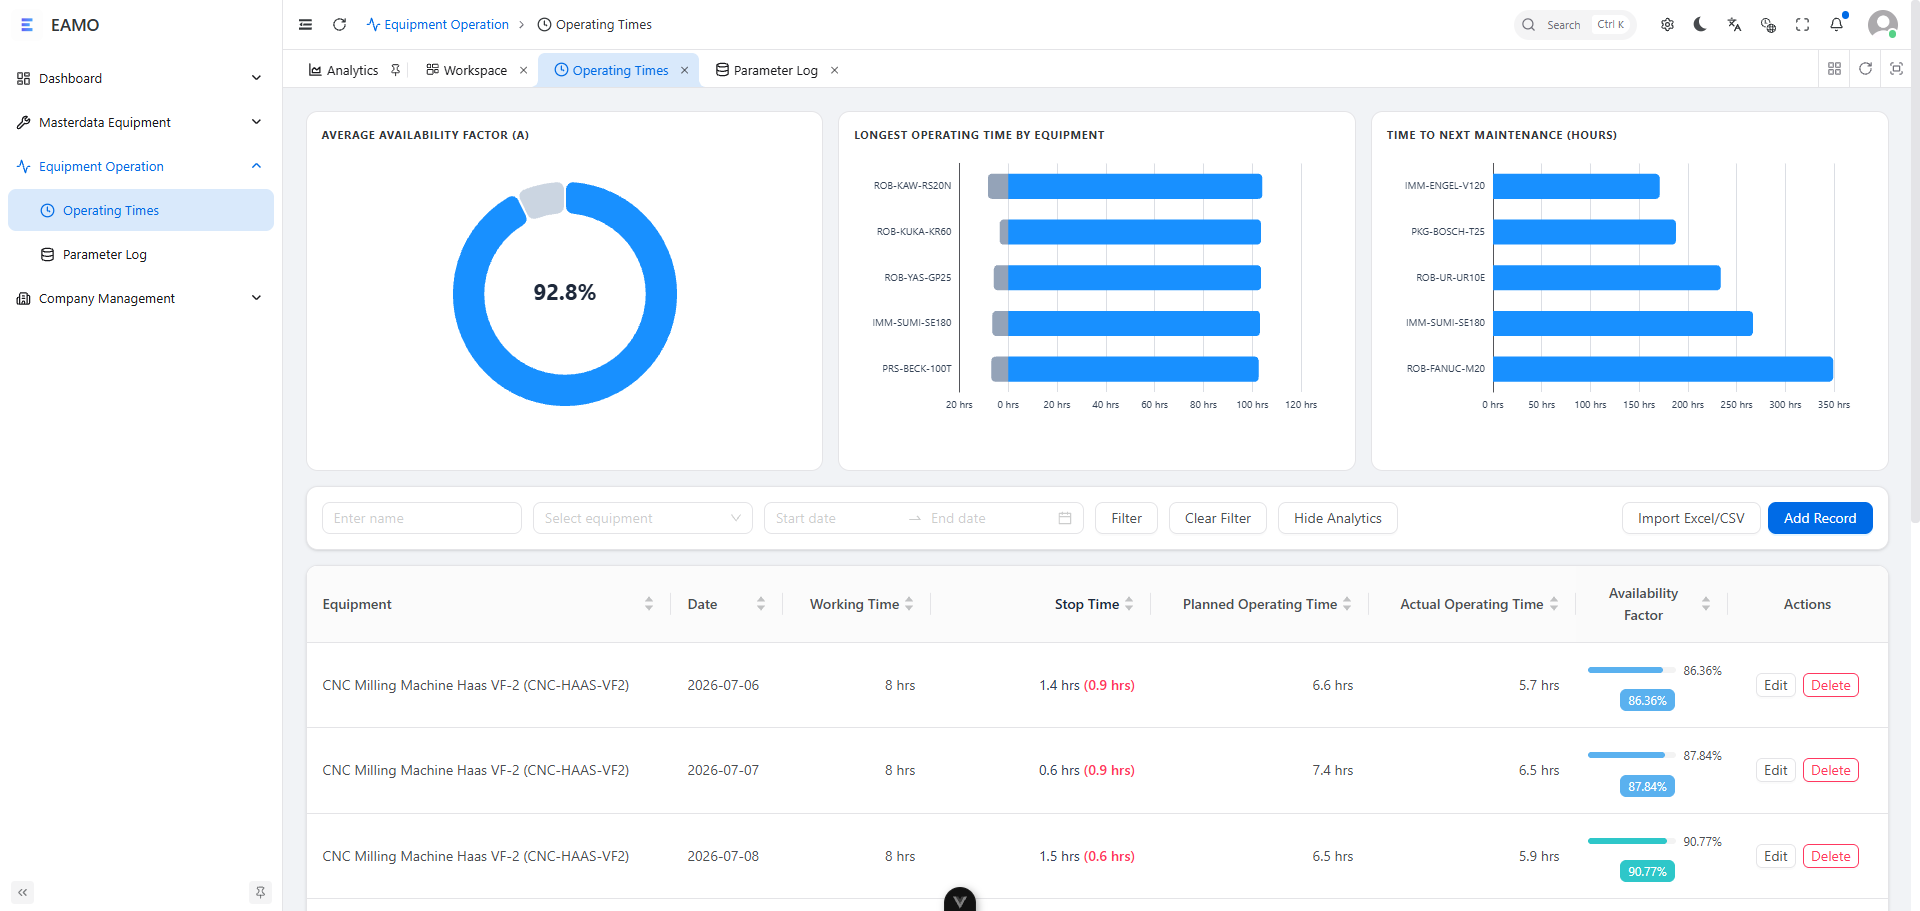
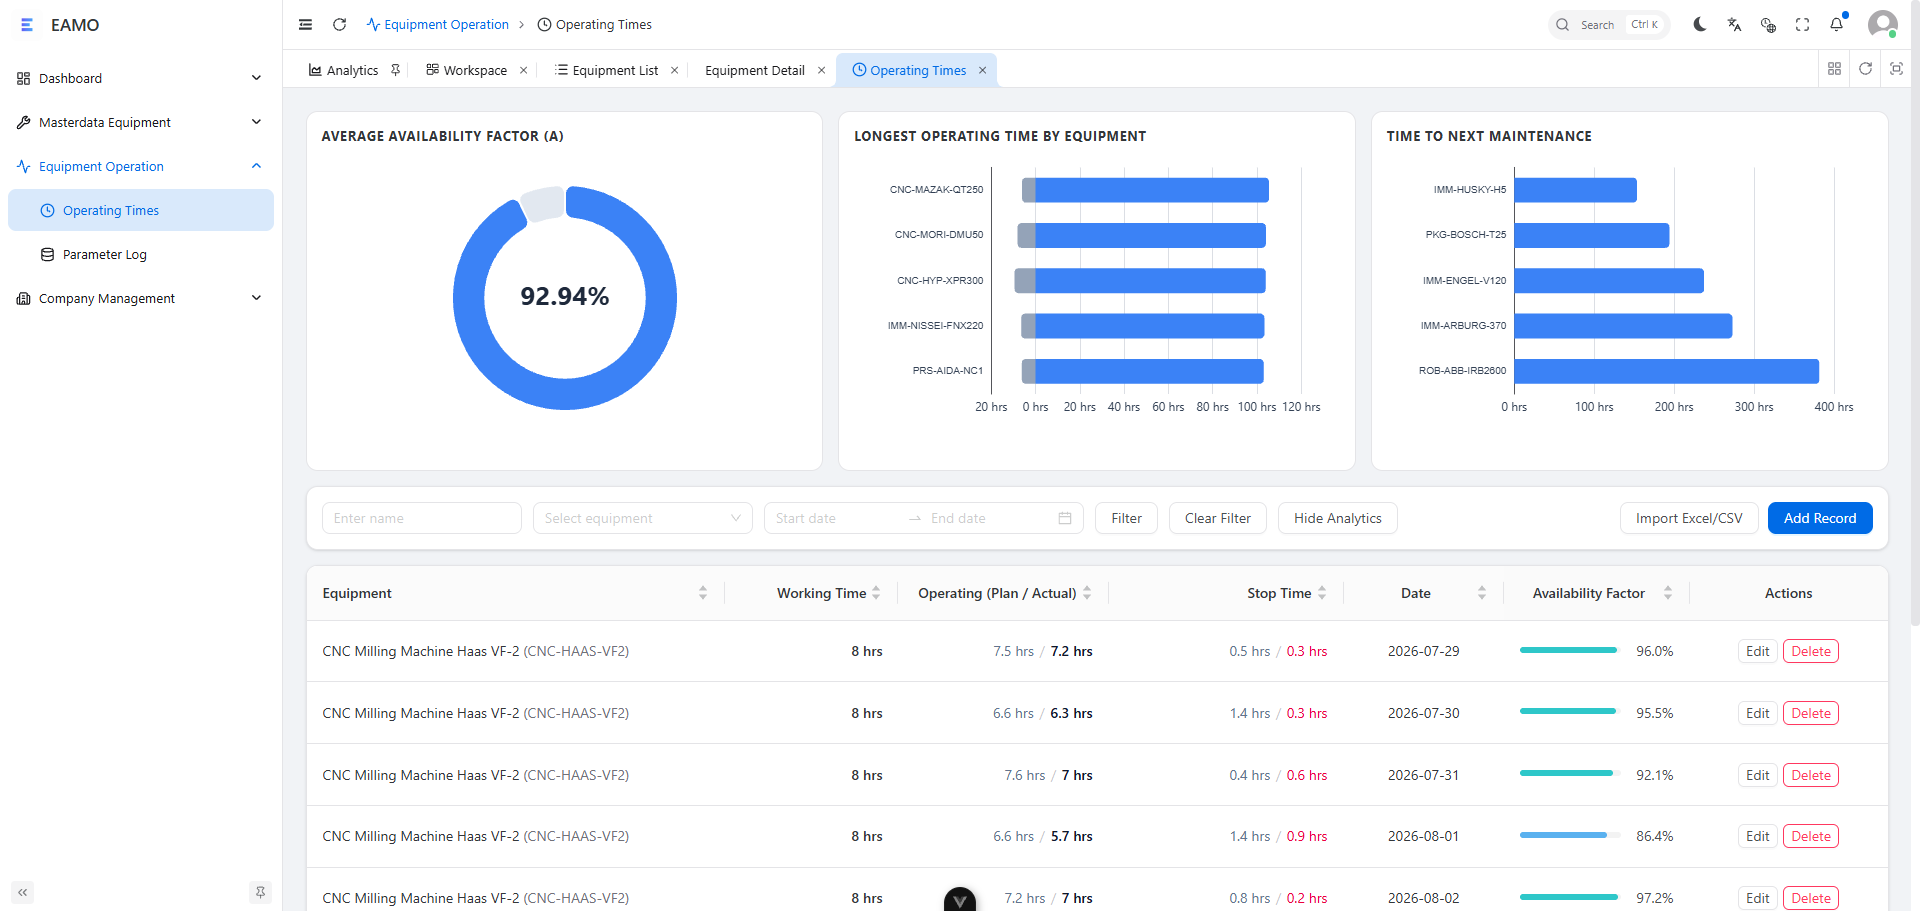
docs: update profile introduction and add new UI/OI screenshots

diff --git a/profile/README.md b/profile/README.md
@@ -1,12 +1,32 @@
 # EAMO — Equipment Asset Management Solution
 
+<div align="center">
+
+![PHP 8.4](https://img.shields.io/badge/PHP-8.4-777BB4?style=flat-square&logo=php&logoColor=white)
+![Laravel 13](https://img.shields.io/badge/Laravel-13.x-FF2D20?style=flat-square&logo=laravel&logoColor=white)
+![Vue 3](https://img.shields.io/badge/Vue-3.x-4FC08D?style=flat-square&logo=vuedotjs&logoColor=white)
+![TypeScript](https://img.shields.io/badge/TypeScript-5.x-3178C6?style=flat-square&logo=typescript&logoColor=white)
+![Ant Design](https://img.shields.io/badge/Ant%20Design%20Vue-4.x-0170FE?style=flat-square&logo=antdesign&logoColor=white)
+![PostgreSQL](https://img.shields.io/badge/PostgreSQL-16-4169E1?style=flat-square&logo=postgresql&logoColor=white)
+![License](https://img.shields.io/badge/License-Proprietary-blue?style=flat-square)
+
+**Enterprise-grade Industrial Asset Management & Maintenance Operations System**
+
+[Overview](#overview) • [Desktop Management Console](#desktop-web-management-console) • [Mobile Operator Interface](#mobile-operator-interface-oi) • [Core Modules](#core-modules) • [RBAC](#role-based-access-control) • [Tech Stack](#system-architecture--technology-stack)
+
+</div>
+
 ---
 
 ## Overview
 
-EAMO (Equipment Asset Management Solution) is an enterprise-grade industrial asset management and maintenance operations system built for manufacturing plants and production facilities. The platform provides end-to-end coverage across the full equipment lifecycle: from master data configuration and daily inspection routines through preventive maintenance scheduling, real-time parameter telemetry logging, and live breakdown incident management.
+**EAMO (Equipment Asset Management Solution)** is an enterprise-grade industrial asset management and maintenance operations platform built for modern manufacturing plants, production facilities, and industrial workshops.
 
-The system is composed of two primary interfaces: a desktop Web Management Console for administrative, managerial, and engineering staff, and a Mobile Operator Interface (OI) purpose-built for shop-floor technicians operating handheld devices on the factory floor.
+The platform provides end-to-end lifecycle management across all plant equipment: from visual hierarchical topology mapping and daily checklist inspection routines to preventive maintenance scheduling, real-time operating parameter telemetry logging, and live machine breakdown incident tracking.
+
+The system is composed of two primary interfaces:
+1. **Desktop Web Management Console**: A full-featured operational and analytics dashboard designed for plant managers, maintenance leads, and reliability engineers.
+2. **Mobile Operator Interface (OI)**: A camera-native, touch-optimized web application purpose-built for shop-floor technicians operating handheld devices and industrial tablets directly at machine stations.
 
 ---
 
@@ -14,121 +34,171 @@ The system is composed of two primary interfaces: a desktop Web Management Conso
 
 ### Desktop Web Management Console
 
-The desktop portal delivers comprehensive dashboards, analytical charts, asset hierarchy browsing, and full CRUD management for all platform resources. It targets Managers, Engineers, and Administrators.
+The desktop portal delivers high-level operational intelligence, visual asset topology mapping, maintenance calendars, telemetry graphs, and granular control over all platform master data.
 
 <div align="center">
-  <p><b>Executive Dashboard — Real-Time Equipment Status & Monitoring</b></p>
+  <p><b>Executive Dashboard — Real-Time Operational Status, Telemetry Waveforms & Availability Rates</b></p>
   <img src="../img/dashboard.png" alt="EAMO Executive Dashboard" width="100%" />
 </div>
 
 <br/>
 
 <div align="center">
-  <p><b>Equipment Master Data List — Asset Hierarchy & Category Management</b></p>
+  <p><b>Workspace Calendar — Maintenance Plans & Inspection Checklist Scheduling Hub</b></p>
+  <img src="../img/workspace.png" alt="Workspace Calendar" width="100%" />
+</div>
+
+<br/>
+
+<div align="center">
+  <p><b>Workspace Checklist Judgement — Manager Evaluation Drawer & Inspection Audit Trail</b></p>
+  <img src="../img/workpace_detail.png" alt="Workspace Checklist Judgement Drawer" width="100%" />
+</div>
+
+<br/>
+
+<div align="center">
+  <p><b>Equipment Master Data — Asset Registry, Category Tree & Parameter Badges</b></p>
   <img src="../img/equipment-list.png" alt="Equipment Master Data List" width="100%" />
 </div>
 
 <br/>
 
 <div align="center">
-  <p><b>Equipment Detail View — Parameters, Error Definitions & State Configuration</b></p>
-  <img src="../img/equipment-detail.png" alt="Equipment Detail View" width="100%" />
+  <p><b>Equipment Hierarchy Diagram — Interactive Node Topology & Auto-Layout Graph</b></p>
+  <img src="../img/equipment-detail.png" alt="Equipment Hierarchy Topology Diagram" width="100%" />
 </div>
 
 <br/>
 
 <div align="center">
-  <p><b>Equipment Parameter Logs — Historical Telemetry Logs & Trend Analysis</b></p>
-  <img src="../img/parameter-log.png" alt="Equipment Parameter Logs" width="100%" />
+  <p><b>Equipment Parameter Configuration — Standard, Min/Max Limits & Unit Tolerance Rules</b></p>
+  <img src="../img/equipment-detail%20(2).png" alt="Equipment Parameter Limit Configuration" width="100%" />
 </div>
 
 <br/>
 
 <div align="center">
-  <p><b>Operating Times & Utilization — Machine Run Hours & Downtime Tracking</b></p>
-  <img src="../img/operating-times.png" alt="Operating Times & Utilization" width="100%" />
+  <p><b>Operating Times & Availability — Run Hours, Downtime Tracking & Availability Factor Metrics</b></p>
+  <img src="../img/operating-times.png" alt="Operating Times and Availability Factor" width="100%" />
 </div>
 
 <br/>
 
 <div align="center">
-  <p><b>Workspace View — Operational Layout & Multi-department Overview</b></p>
-  <img src="../img/workspace.png" alt="Workspace View" width="100%" />
+  <p><b>Equipment Parameter Telemetry Logs — Time-Series Trends & Boundary Limit Warnings</b></p>
+  <img src="../img/parameter-log.png" alt="Equipment Parameter Logs and Trends" width="100%" />
+</div>
+
+<br/>
+
+<div align="center">
+  <p><b>Unified Authentication — Dual-Portal Access (Desktop UI / Mobile OI) & Theme Switching</b></p>
+  <img src="../img/login.png" alt="Unified Authentication Screen" width="100%" />
 </div>
 
 ---
 
-## Mobile Operator Interface (OI)
+### Mobile Operator Interface (OI)
 
-The Operator Interface is a mobile-first web portal designed specifically for shop-floor technicians, operators, and maintenance engineers using handheld devices or ruggedized industrial tablets at the machine level.
+The Operator Interface is a lightweight, mobile-first web portal designed specifically for technicians and operators on the factory floor. It streamlines machine interactions through a 2-step QR-code workflow: scan the machine's physical QR badge to hydrate context, then log parameters, check off inspection items, or flag breakdown incidents.
 
-The OI is accessed via a dedicated portal route and implements a 2-step QR-scan workflow across its core functions: the operator scans a physical equipment QR code attached to the machine, which hydrates the system context for that specific asset, then proceeds to complete the relevant data entry action.
-
-Key design characteristics of the OI:
-
-- **Camera-native QR scanning**: Uses a real-time HTML5 video camera stream to decode equipment QR codes directly, with fallback matching against master data if the equipment is not recognized.
-- **Mobile-first single-page interaction**: Minimal taps, large touch targets, and a chip/card-based selection interface instead of dropdown menus.
-- **Non-empty field filtering**: For parameter logging, client-side logic automatically strips blank fields from the submission payload, preventing empty database records without requiring manual validation by the operator.
-- **Bilingual support**: The interface supports both English and Vietnamese localization.
-
-### Mobile OI Screenshots
+#### Mobile OI Features & Highlights:
+- **Camera-Native QR Scanning**: Leverages HTML5 video camera streams with automated decoding and fallback search.
+- **Speed Dial Action Hub**: Instant one-tap navigation to all vital mobile actions.
+- **Visual Progress Tracking**: Real-time completion progress rings for daily checklist sessions and maintenance orders.
+- **Automated Data Sanitization**: Client-side filtering automatically strips un-entered fields to ensure database integrity.
+- **Live Push Notification Feed**: Real-time error dispatches and maintenance schedule assignments.
 
 <div align="center">
-  <div style="display: flex; overflow-x: auto; gap: 16px; padding: 12px 0; -webkit-overflow-scrolling: touch; justify-content: flex-start;">
-    <img src="../img/mobile-3.png" alt="Mobile OI — Equipment Parameter Logging Screen" width="270" style="flex-shrink: 0; border-radius: 10px;" />
-    <img src="../img/mobile-4.png" alt="Mobile OI — Main Portal Screen" width="270" style="flex-shrink: 0; border-radius: 10px;" />
-    <img src="../img/mobile-1.png" alt="Mobile OI — Incident Reporting Screen" width="270" style="flex-shrink: 0; border-radius: 10px;" />
+  <div style="display: flex; overflow-x: auto; gap: 16px; padding: 12px 0; -webkit-overflow-scrolling: touch; justify-content: center; flex-wrap: wrap;">
+    <div style="text-align: center; max-width: 260px; margin: 8px;">
+      <img src="../img/mobile-4.png" alt="Mobile Navigation Hub" width="240" style="border-radius: 12px; box-shadow: 0 4px 12px rgba(0,0,0,0.1);" />
+      <p><b>1. Quick Navigation Hub</b><br/><sub>Speed dial menu for instant workflow access</sub></p>
+    </div>
+    <div style="text-align: center; max-width: 260px; margin: 8px;">
+      <img src="../img/mobile-3.png" alt="Checklist Task List" width="240" style="border-radius: 12px; box-shadow: 0 4px 12px rgba(0,0,0,0.1);" />
+      <p><b>2. Inspection & Maintenance Tasks</b><br/><sub>Live progress rings & fast incident triggers</sub></p>
+    </div>
+    <div style="text-align: center; max-width: 260px; margin: 8px;">
+      <img src="../img/mobile-1.png" alt="QR Scanner" width="240" style="border-radius: 12px; box-shadow: 0 4px 12px rgba(0,0,0,0.1);" />
+      <p><b>3. Camera QR Scanner</b><br/><sub>Instant machine binding via physical QR badge</sub></p>
+    </div>
+    <div style="text-align: center; max-width: 260px; margin: 8px;">
+      <img src="../img/mobile-2.png" alt="Notifications Center" width="240" style="border-radius: 12px; box-shadow: 0 4px 12px rgba(0,0,0,0.1);" />
+      <p><b>4. Push Notifications</b><br/><sub>Real-time machine breakdown & dispatch alerts</sub></p>
+    </div>
   </div>
 </div>
 
-For full architectural specifications, sequence diagrams, and API payload schemas, refer to the [Operator Interface Technical Documentation Master Index](../docs/oi/README.md).
+For detailed technical workflow specifications, see the [Operator Interface Technical Documentation Master Index](../docs/oi/README.md).
 
 ---
 
-## Features
+## Core Modules
 
-### Equipment & Master Data Management
+### 1. Equipment Master Data & Visual Topology Graph
+Maintains an asset registry supporting hierarchical parent-child relationships across plant lines, machine cells, and sub-assemblies. Includes:
+- Interactive node-based hierarchy graph with auto-layout and drag-and-drop relationship mapping.
+- Parameter configuration with standard operating targets, minimum/maximum critical bounds, and unit definitions (`°C`, `bar`, `kW`, `RPM`).
+- Pre-configured equipment error definitions and dynamic QR-code generation.
 
-The system maintains a structured asset registry with support for hierarchical parent-child equipment relationships, allowing plant assets to be organized by production line, machine group, or sub-component. Each equipment record includes category classification, state definitions (e.g., Running, Fault, Idle, Under Maintenance), pre-configured error definitions, and technical parameter specifications with upper and lower operating limits. QR code generation and decoding are built in for rapid physical identification from mobile devices.
+### 2. Workspace Calendar & Maintenance Scheduling
+Enables proactive asset reliability management through preventive maintenance plans and scheduled work orders:
+- Recurring maintenance intervals (daily, weekly, monthly, quarterly, annual).
+- Multi-engineer assignment and component replacement tracking.
+- Interactive monthly and yearly workspace calendar views with completion status color coding.
 
-### Daily Checklist Inspections
+### 3. Daily Checklist Inspection & Manager Judgement
+Streamlines daily pre-operational equipment checks:
+- Scheduled daily inspection sessions assigned to technicians.
+- Mobile execution with numeric value inputs, pass/fail toggles, and remarks.
+- Two-tier approval: Managers evaluate (judge) completed checklist sessions, review out-of-spec readings, and authorize operational release.
 
-The checklist module supports the creation of daily inspection sessions, defining which equipment items are to be inspected and by which operators. Engineers complete scheduled inspections by recording values against each checklist item. Completed sessions are evaluated (judged) by Managers, who verify whether recorded values fall within safe operating ranges. Full audit trails are maintained with inspector identity, timestamps, and completion status.
+### 4. Telemetry Parameter Logging & Anomaly Detection
+Captures time-series machine telemetry data:
+- Historical telemetry charts with visual standard, minimum, and maximum threshold lines.
+- Automatic highlighting of out-of-tolerance parameter deviations.
+- Batch telemetry log recording and Excel/CSV data import capabilities.
 
-### Preventive & Corrective Maintenance
+### 5. Operating Times & Machine Availability Analytics
+Tracks machine utilization and downtime for OEE and reliability reporting:
+- Calculation of planned vs. actual operating hours, idle time, and unplanned downtime.
+- Automated Average Availability Factor calculation per machine and production line.
+- Metrics supporting MTBF (Mean Time Between Failures) and MTTR (Mean Time To Repair) analysis.
 
-The maintenance module enables Managers to define structured maintenance plans tied to specific equipment, specifying recurrence intervals (daily, weekly, monthly, annually), assigned responsible engineers, required maintenance items and categories, and target dates. The system generates maintenance schedules from these plans, which Engineers execute and mark as completed. All completed maintenance activities are recorded in maintenance logs capturing work performed, components replaced, and labor details.
-
-### Error Monitoring & Telemetry Analytics
-
-The error monitoring module consolidates machine breakdown incident tracking and operational uptime data. Incident logs record the specific error that occurred, the time of occurrence, resolution details, the handling technician, and whether the incident has been resolved. Operating time records capture run hours, idle time, and downtime periods per equipment, supporting OEE and MTBF calculations. The parameter log module stores historical telemetry readings against each configured parameter, enabling trend analysis and anomaly detection over time.
+### 6. Incident Breakdown Reporting & Error Resolution
+End-to-end management of shop-floor machine breakdowns:
+- Fast mobile incident logging with photo uploads and error classification.
+- Maintenance dispatch with technician assignment and live notifications.
+- Root cause analysis logging, corrective actions taken, and downtime tracking upon incident closure.
 
 ---
 
 ## Role-Based Access Control
 
-EAMO implements a hierarchical access control system with four roles. Access to API endpoints is enforced at the middleware level; each role inherits all permissions of lower-ranked roles.
+EAMO enforces a 4-tier hierarchical access model at both the API middleware and UI routing layers:
 
-| Role | Hierarchy Level | Scope of Access |
+| Role | Hierarchy Level | Key Permissions & Operational Scope |
 | :--- | :---: | :--- |
-| Admin | 4 | Full system administration: manage companies, departments, global user accounts, and all system resources. |
-| Manager | 3 | Operations management: create and edit equipment master data, define maintenance plans, approve checklist session judgements, manage error logs, and import telemetry data in bulk. |
-| Engineer | 2 | Technical execution: view all equipment records, perform checklist inspections, execute assigned maintenance work orders, log equipment telemetry parameters, and submit breakdown incident reports. |
-| User | 1 | Basic access: view personal schedule assignments, manage own profile, and receive system notifications. |
+| **Admin** | Level 4 | System-wide governance: company profiles, department structures, user account provisioning, role assignment, and global master data settings. |
+| **Manager** | Level 3 | Operations leadership: create/modify equipment master data, approve checklist judgements, configure maintenance plans, manage breakdown logs, and review facility analytics. |
+| **Engineer** | Level 2 | Technical execution: perform daily checklist inspections, complete maintenance work orders, record equipment telemetry parameters, and log incident reports. |
+| **User** | Level 1 | Base access: view personal task assignments, manage user profile, and receive system notification alerts. |
 
 ---
 
 ## System Architecture & Technology Stack
 
-| Layer | Technology |
-| :--- | :--- |
-| Backend Framework | Laravel 13 / PHP 8.4 — Modular architecture with Single Action Controllers (ADR pattern) — [eamo-backend](https://github.com/eamo-mes/eamo-backend) |
-| Core Package | [eam-mes-package](https://github.com/LavioDev/eam-mes-package) — Service providers, migrations, and a Dynamic Table Extension system to integrate Checklist, Maintenance, Parameter Logs, and Error Monitoring |
-| Authentication | Laravel Passport — OAuth 2.0 PKCE authentication with custom role middleware (`engineer`, `manager`, `admin`) |
-| Frontend Portal | Vue 3 with TypeScript, Vite, and Ant Design Vue components library (pnpm monorepo) — [eamo-frontend](https://github.com/eamo-mes/eamo-frontend) |
-| Mobile OI Portal | Mobile-first responsive web application with HTML5 Camera Stream QR scanning |
-| Database | PostgreSQL with UUID primary keys |
-| Module Structure | Domain-driven modular layout: `Masterdata/Equipment`, `Equipment/Checklist`, `Equipment/Maintenance`, `Equipment/ErrorMonitoring`, `Equipment/ParameterLog` |
+| Layer | Component / Technology | Description |
+| :--- | :--- | :--- |
+| **Backend API** | Laravel 13 / PHP 8.4 | Modular architecture utilizing Single Action Controllers (Action-Domain-Responder pattern) — [eamo-backend](https://github.com/eamo-mes/eamo-backend) |
+| **Core Package** | [eam-mes-package](https://github.com/LavioDev/eam-mes-package) | Core service providers, database migrations, and Dynamic Table Extension system integrating Checklist, Maintenance, Parameter Logs, and Error Monitoring |
+| **Authentication** | Laravel Passport | OAuth 2.0 PKCE authentication with custom role-enforcing middleware (`admin`, `manager`, `engineer`) |
+| **Desktop Frontend** | Vue 3 + TypeScript + Vite | Monorepo architecture with Ant Design Vue component system, Pinia state stores, and Chart.js visualizations — [eamo-frontend](https://github.com/eamo-mes/eamo-frontend) |
+| **Mobile OI Portal** | Vue 3 + Mobile-First PWA | Responsive mobile portal with HTML5 Camera Stream QR code scanning and speed-dial navigation |
+| **Database** | PostgreSQL 16 | Relational schema with UUID primary keys, temporal telemetry logs, and JSONB extension storage |
+| **Design System** | Tailored Modern Industrial UI | Dual-theme support (Dark/Light), multilingual localization (EN/VI), and responsive layout |
 
 ---
 
